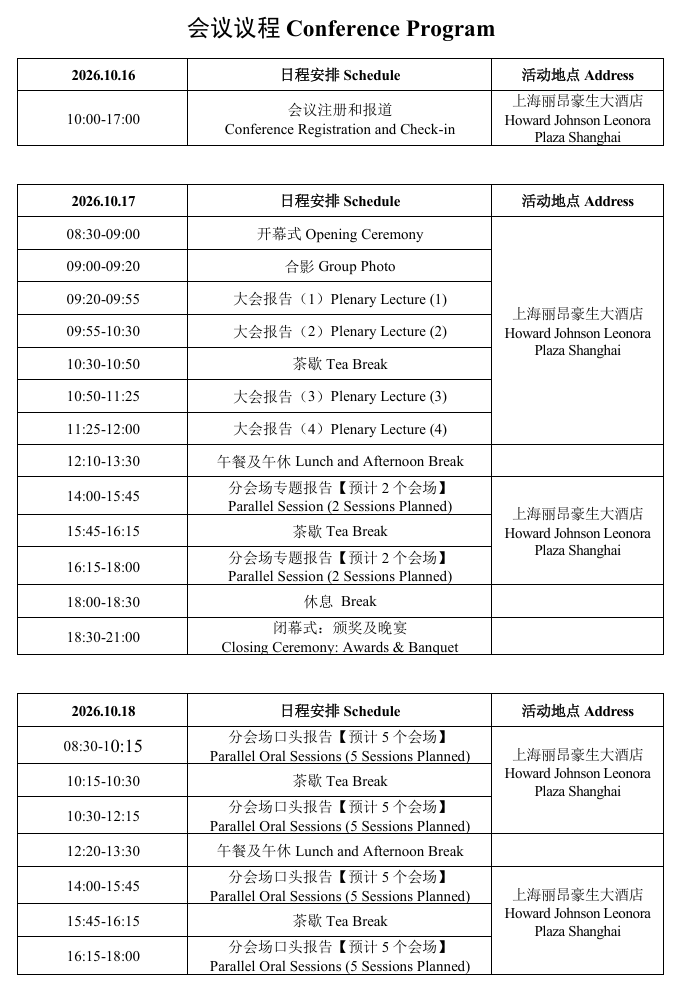
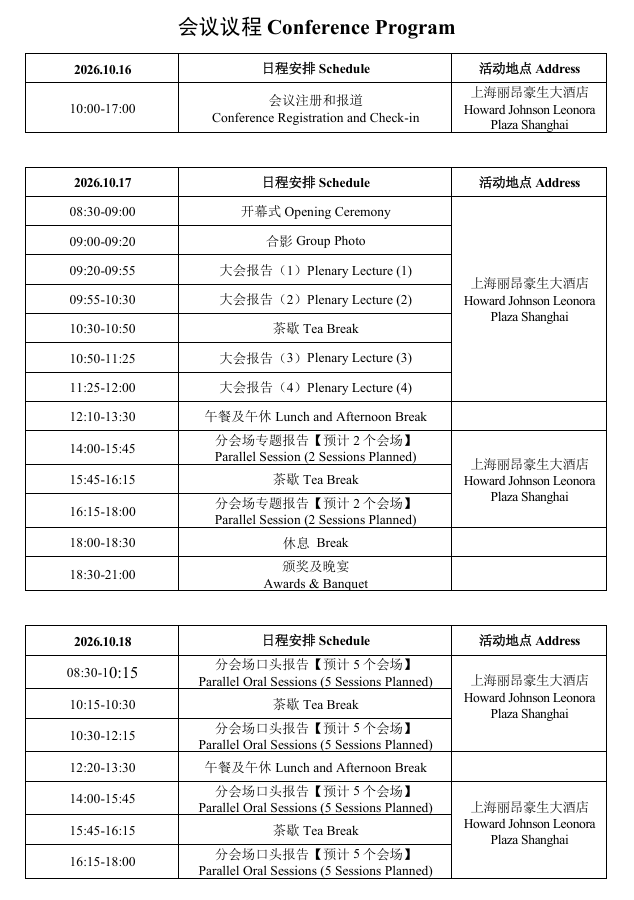
update homepage links

diff --git a/index.html b/index.html
@@ -113,7 +113,7 @@
             <p>
               <strong>Secretariat of USYS’26:</strong><br><br>
               University of Shanghai for Science and Technology<br>
-              No. 516, Gongjun Road, Yangpu District, Shanghai
+              No. 516, Jungong Road, Yangpu District, Shanghai
             </p>
           
           

diff --git a/program.html b/program.html
@@ -70,6 +70,7 @@
 
   <main class="container program-main">
     <img src="img/program.png" alt="Conference program schedule">
+    <br><br>
     <img src="img/program2.png" alt="Conference program continuation">
   </main>
 
